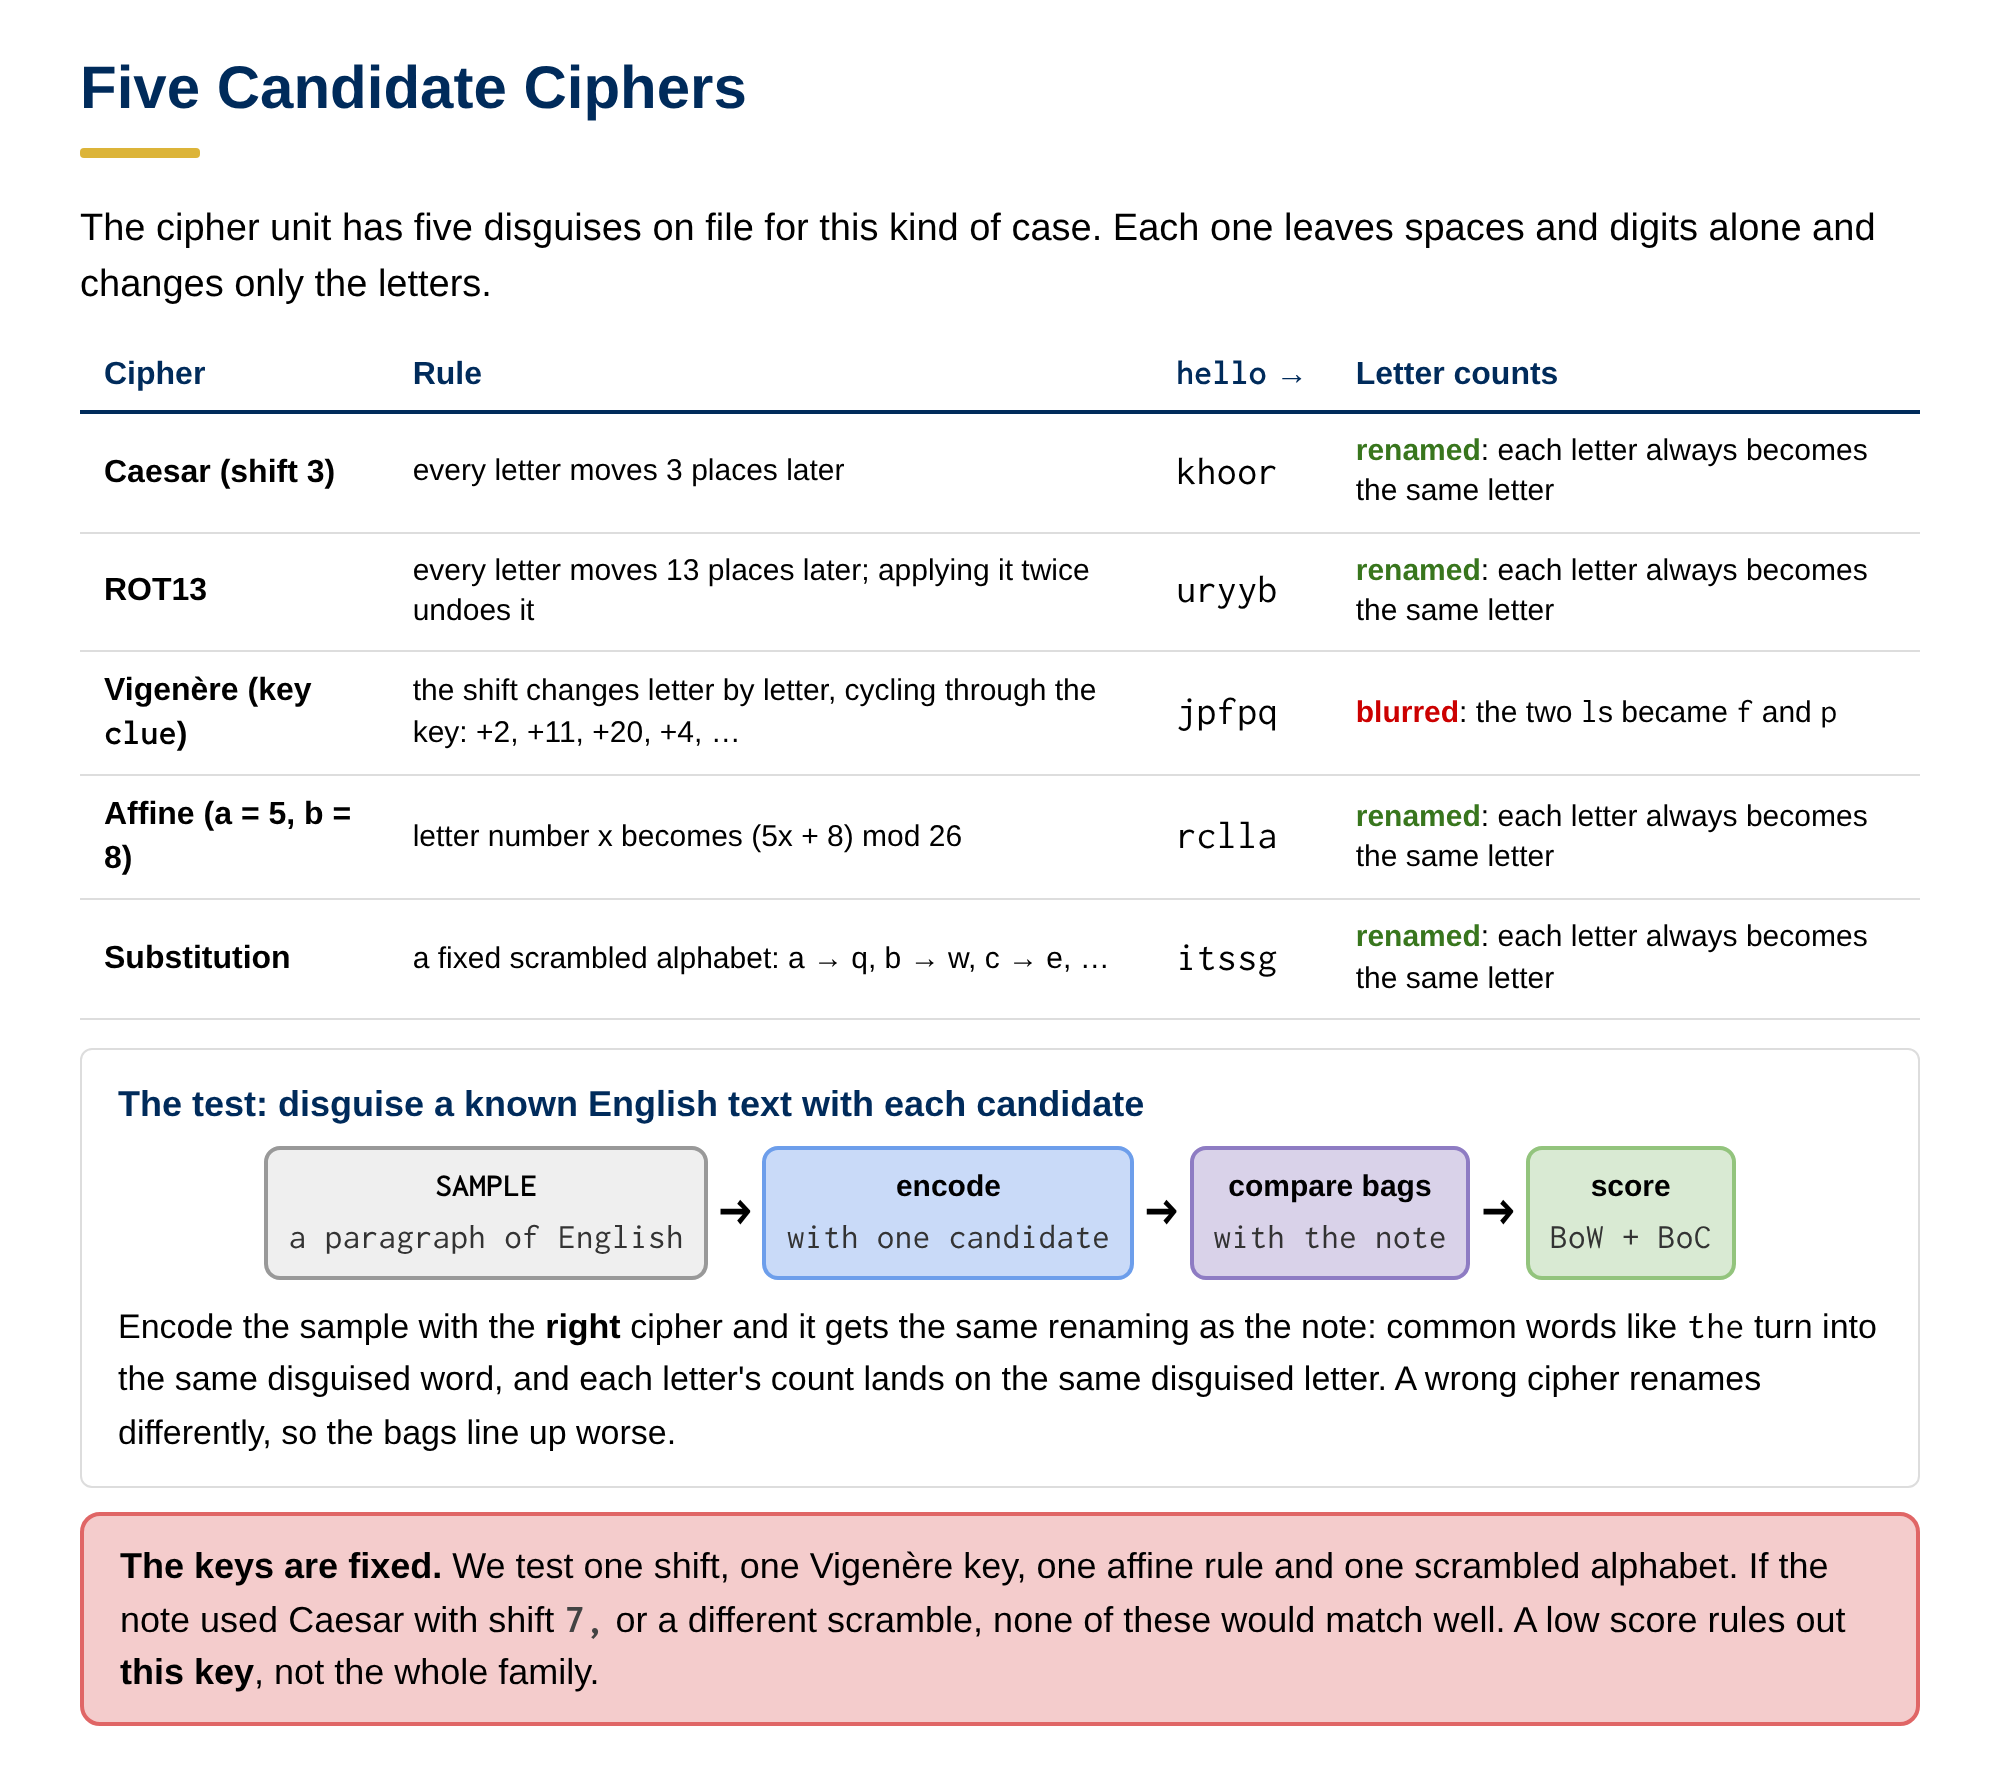
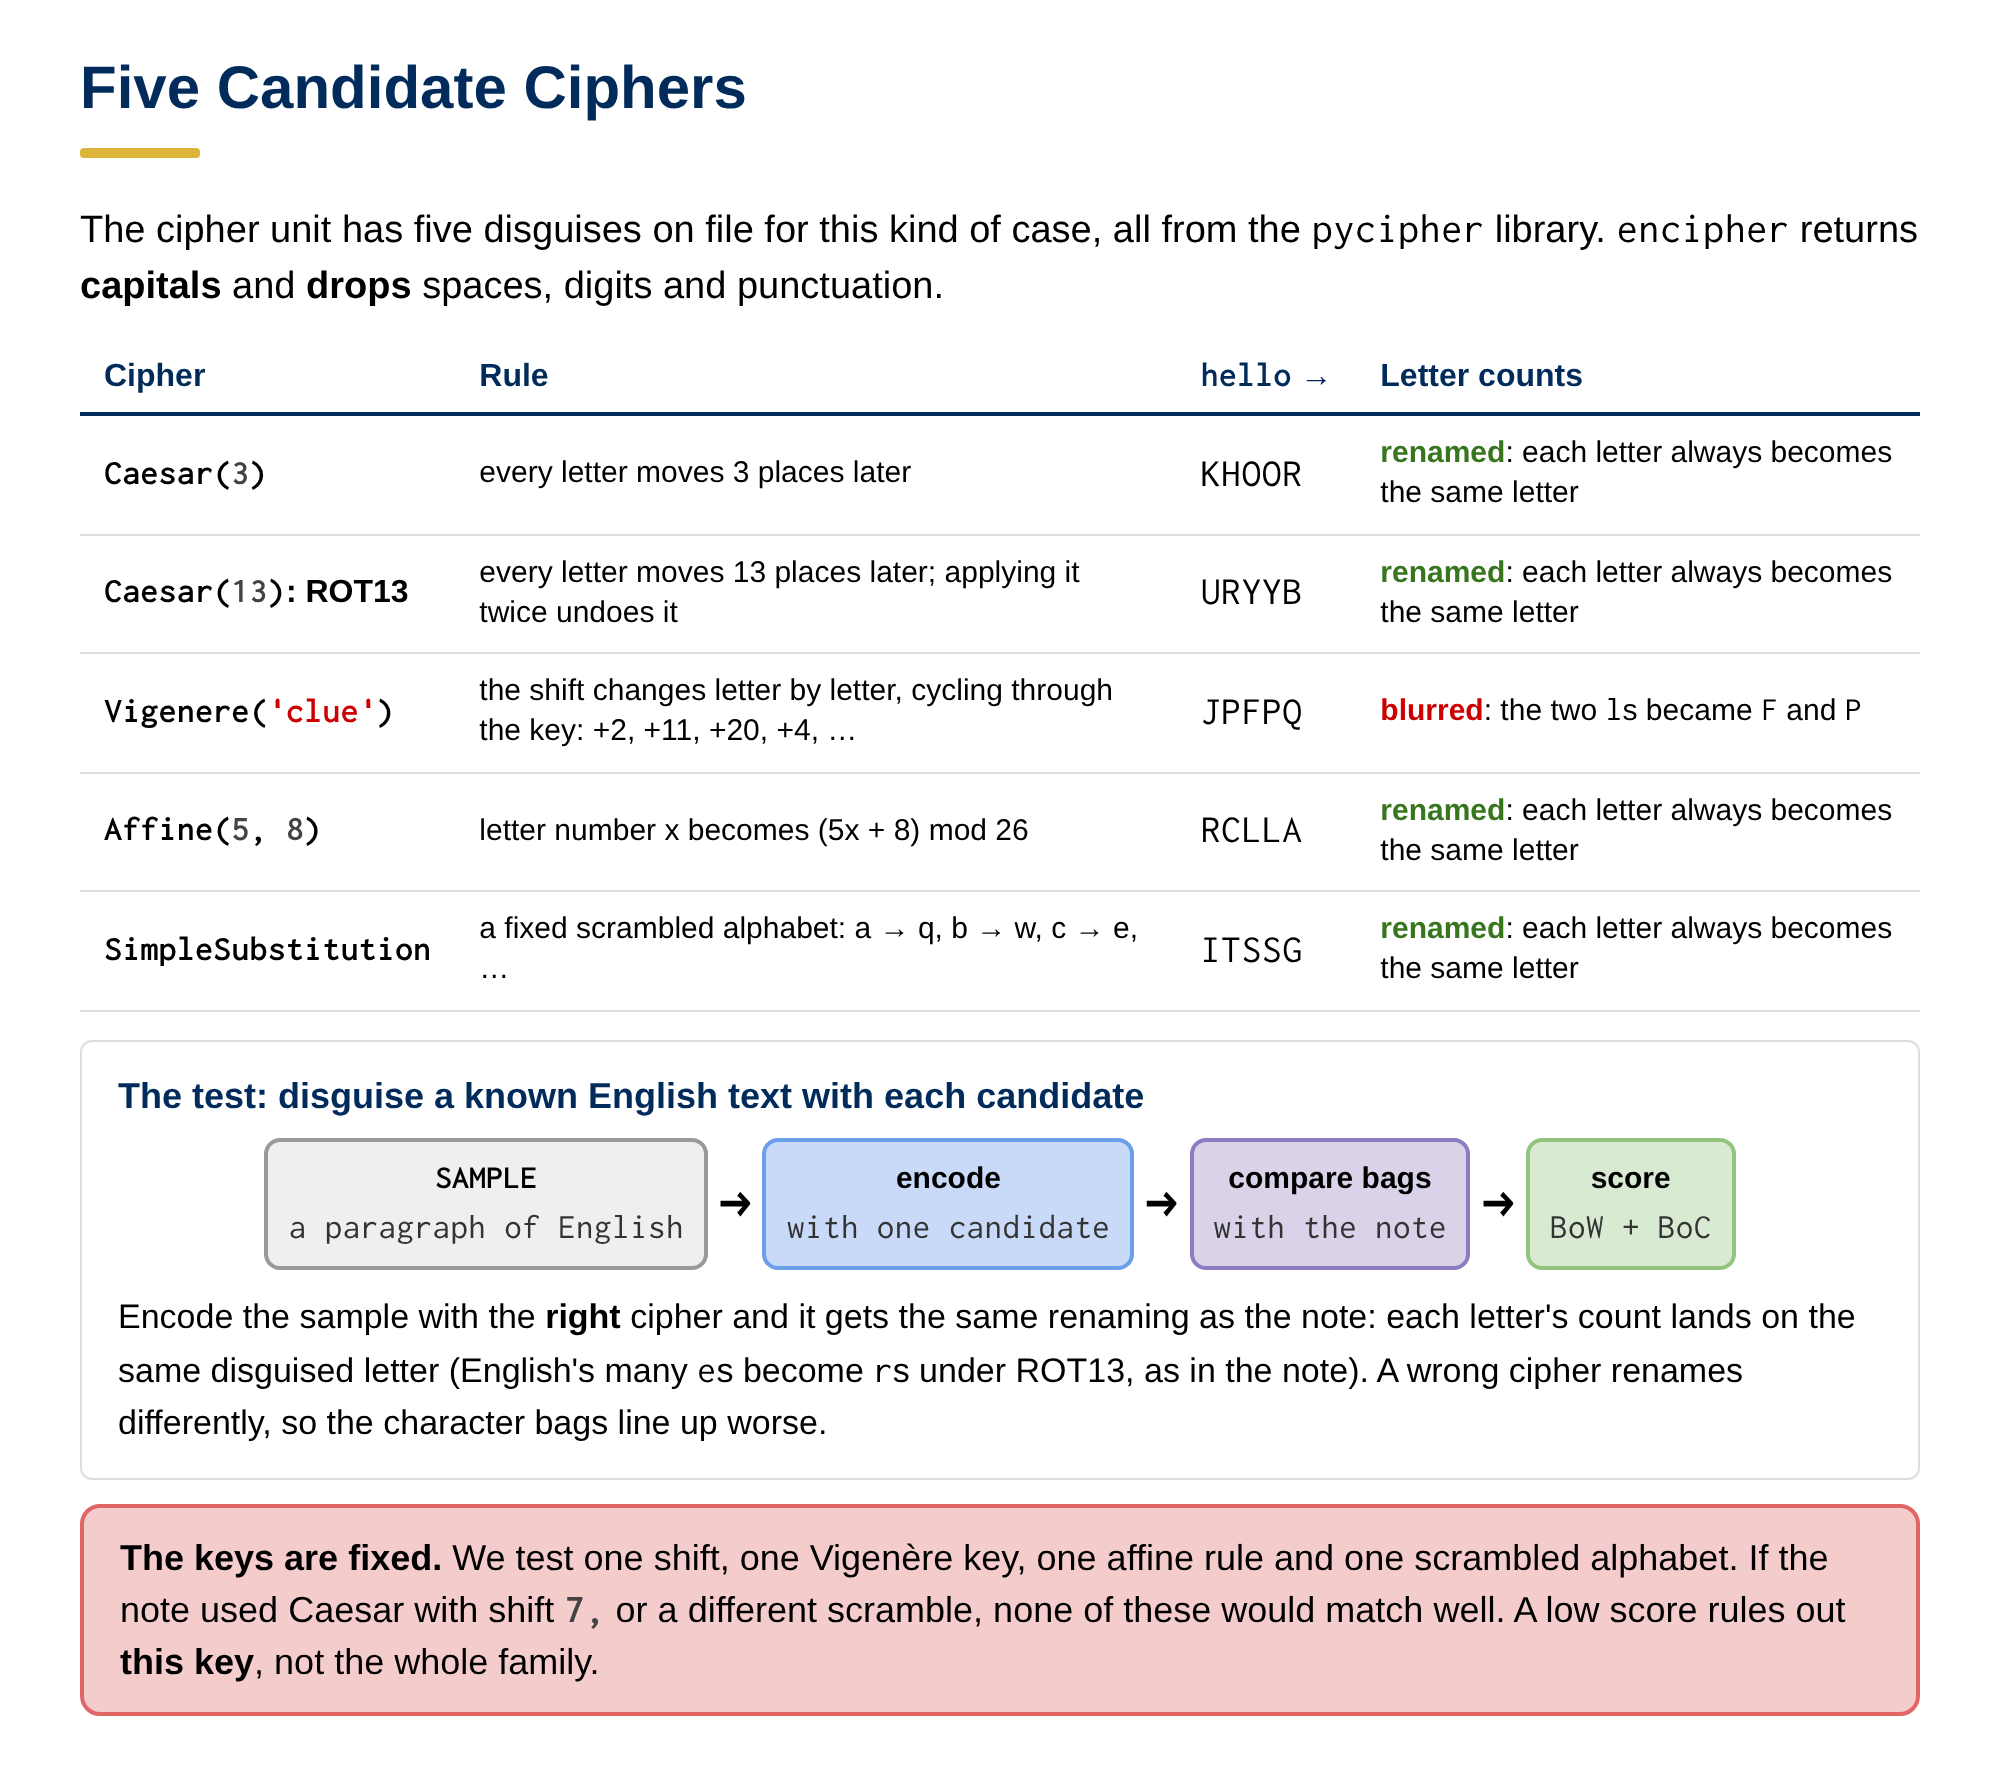
HW08: use pycipher for the five candidate ciphers, as in Spring 2026
Task 01-1 enciphers the sample with pycipher's Caesar, Vigenere, Affine and
SimpleSubstitution instead of hand-written functions; the setup cell installs
pycipher when missing. BoW is now 0 for every candidate (pycipher strips
spaces), so 01-2 Q1 asks why; plate 01-1c and requirements.txt updated.

Claude-Session: https://claude.ai/code/session_01TFuZoGMK4Gqs8D5XhESC2d

diff --git a/draft_tools/plates08.py b/draft_tools/plates08.py
@@ -67,13 +67,13 @@ def _():
 # ---------------------------------------------------------------- Task 01-1
 @plate('plate_01-1c_five_candidate_ciphers')
 def _():
-    rows = [('Caesar (shift 3)', 'every letter moves 3 places later', 'khoor', True),
-            ('ROT13', 'every letter moves 13 places later; applying it twice undoes it', 'uryyb', True),
-            ('Vigenère (key <span class="code">clue</span>)', 'the shift changes letter by letter, cycling through the key: +2, +11, +20, +4, …', 'jpfpq', False),
-            ('Affine (a = 5, b = 8)', 'letter number x becomes (5x + 8) mod 26', 'rclla', True),
-            ('Substitution', 'a fixed scrambled alphabet: a → q, b → w, c → e, …', 'itssg', True)]
+    rows = [('<span class="code">Caesar(3)</span>', 'every letter moves 3 places later', 'KHOOR', True),
+            ('<span class="code">Caesar(13)</span>: ROT13', 'every letter moves 13 places later; applying it twice undoes it', 'URYYB', True),
+            ('<span class="code">Vigenere(\'clue\')</span>', 'the shift changes letter by letter, cycling through the key: +2, +11, +20, +4, …', 'JPFPQ', False),
+            ('<span class="code">Affine(5, 8)</span>', 'letter number x becomes (5x + 8) mod 26', 'RCLLA', True),
+            ('<span class="code">SimpleSubstitution</span>', 'a fixed scrambled alphabet: a → q, b → w, c → e, …', 'ITSSG', True)]
     keep = '<span class="g">renamed</span>: each letter always becomes the same letter'
-    blur = '<span class="r">blurred</span>: the two <span class="code lit">l</span>s became <span class="code lit">f</span> and <span class="code lit">p</span>'
+    blur = '<span class="r">blurred</span>: the two <span class="code lit">l</span>s became <span class="code lit">F</span> and <span class="code lit">P</span>'
     body = ''.join(f'<tr><td><b>{n}</b></td><td style="font-size:15px">{r}</td><td class="code" style="font-size:17px">{e}</td>'
                    f'<td style="font-size:15px">{keep if k else blur}</td></tr>' for n, r, e, k in rows)
     flow = chain([("<span class='code'>SAMPLE</span><small>a paragraph of English</small>", 'fk lk'),
@@ -81,11 +81,11 @@ def _():
                   ('compare bags<small>with the note</small>', 'fp lp'),
                   ('score<small>BoW + BoC</small>', 'fg lg')], size=15)
     return title('Five Candidate Ciphers') + f'''
-<p>The cipher unit has five disguises on file for this kind of case. Each one leaves spaces and digits alone and changes only the letters.</p>
+<p>The cipher unit has five disguises on file for this kind of case, all from the <span class="code">pycipher</span> library. <span class="code">encipher</span> returns <b>capitals</b> and <b>drops</b> spaces, digits and punctuation.</p>
 <table class="t" style="font-size:16px"><tr><th>Cipher</th><th>Rule</th><th><span class="code">hello</span> →</th><th>Letter counts</th></tr>{body}</table>
 <div class="card"><h3>The test: disguise a known English text with each candidate</h3>
 <div style="margin:6px 0 10px">{flow}</div>
-<span style="font-size:17px">Encode the sample with the <b>right</b> cipher and it gets the same renaming as the note: common words like <span class="code">the</span> turn into the same disguised word, and each letter's count lands on the same disguised letter. A wrong cipher renames differently, so the bags line up worse.</span></div>
+<span style="font-size:17px">Encode the sample with the <b>right</b> cipher and it gets the same renaming as the note: each letter's count lands on the same disguised letter (English's many <span class="code lit">e</span>s become <span class="code lit">r</span>s under ROT13, as in the note). A wrong cipher renames differently, so the character bags line up worse.</span></div>
 <div class="callout lr fr" style="margin-bottom:0"><b>The keys are fixed.</b> We test one shift, one Vigenère key, one affine rule and one scrambled alphabet. If the note used Caesar with shift 7, or a different scramble, none of these would match well. A low score rules out <b>this key</b>, not the whole family.</div>
 '''
 
@@ -498,12 +498,7 @@ SPEC = {'### Task 01-1: Description (0 pts.)': [(['(already applied: plates were
                                             'letters, so their letter-by-letter cosine is 0, but their sorted counts are both [2,1,1,1], so the sorted-profile '
                                             'cosine is 1.'),
                                            ('plate_01-1c_five_candidate_ciphers',
-                                            'Five candidate ciphers, each changing letters only. Caesar shift 3: hello becomes khoor. ROT13: shift 13, its own '
-                                            'inverse, uryyb. Vigenere with key clue: the shift cycles through the key, jpfpq, so the two ls become different '
-                                            'letters and counts are blurred. Affine a = 5, b = 8: x becomes (5x + 8) mod 26, rclla. Substitution: a fixed '
-                                            'scrambled alphabet, itssg. All but Vigenere rename letters consistently. The test: encode an English sample with '
-                                            'each candidate, compare its word and character bags with the note, and score BoW + BoC. The keys are fixed, so a '
-                                            'low score rules out that key, not the whole family.')])],
+                                            'Five candidate ciphers from the pycipher library, each with a fixed key. Caesar(3): hello becomes KHOOR. Caesar(13), ROT13, its own inverse: URYYB. Vigenere with key clue: the shift cycles through the key, JPFPQ, so the two ls become different letters and counts are blurred. Affine(5, 8): x becomes (5x + 8) mod 26, RCLLA. SimpleSubstitution: a fixed scrambled alphabet, ITSSG. All but Vigenere rename letters consistently. encipher returns capitals and drops spaces, digits and punctuation. The test: encode an English sample with each candidate, compare its word and character bags with the note, and score BoW + BoC. The keys are fixed, so a low score rules out that key, not the whole family.')])],
  '### Task 02-1: Description (0 pts.)': [(['(already applied: plates were wired into the notebooks directly)'],
                                           [('plate_02-1_characters_become_ids',
                                             'Vocabulary of V = 41 tokens: 0 PAD, 1 EOS, 2 UNK, 3 SOS (unused), 4 space, 5 to 30 letters a to z, 31 to 40 '
